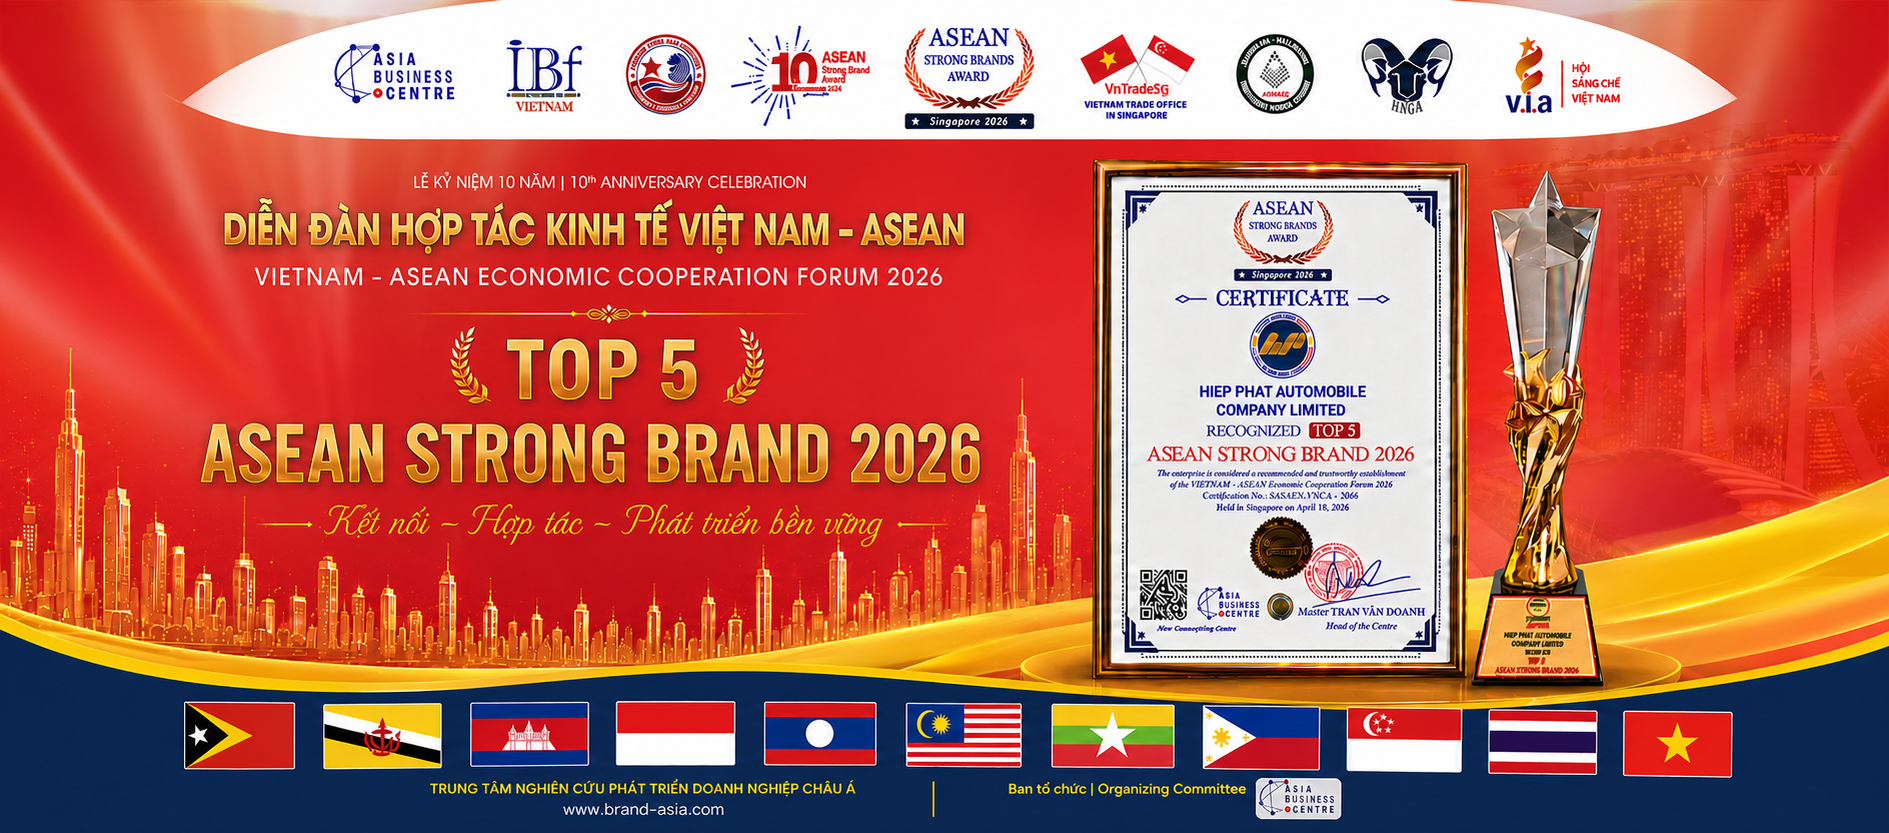
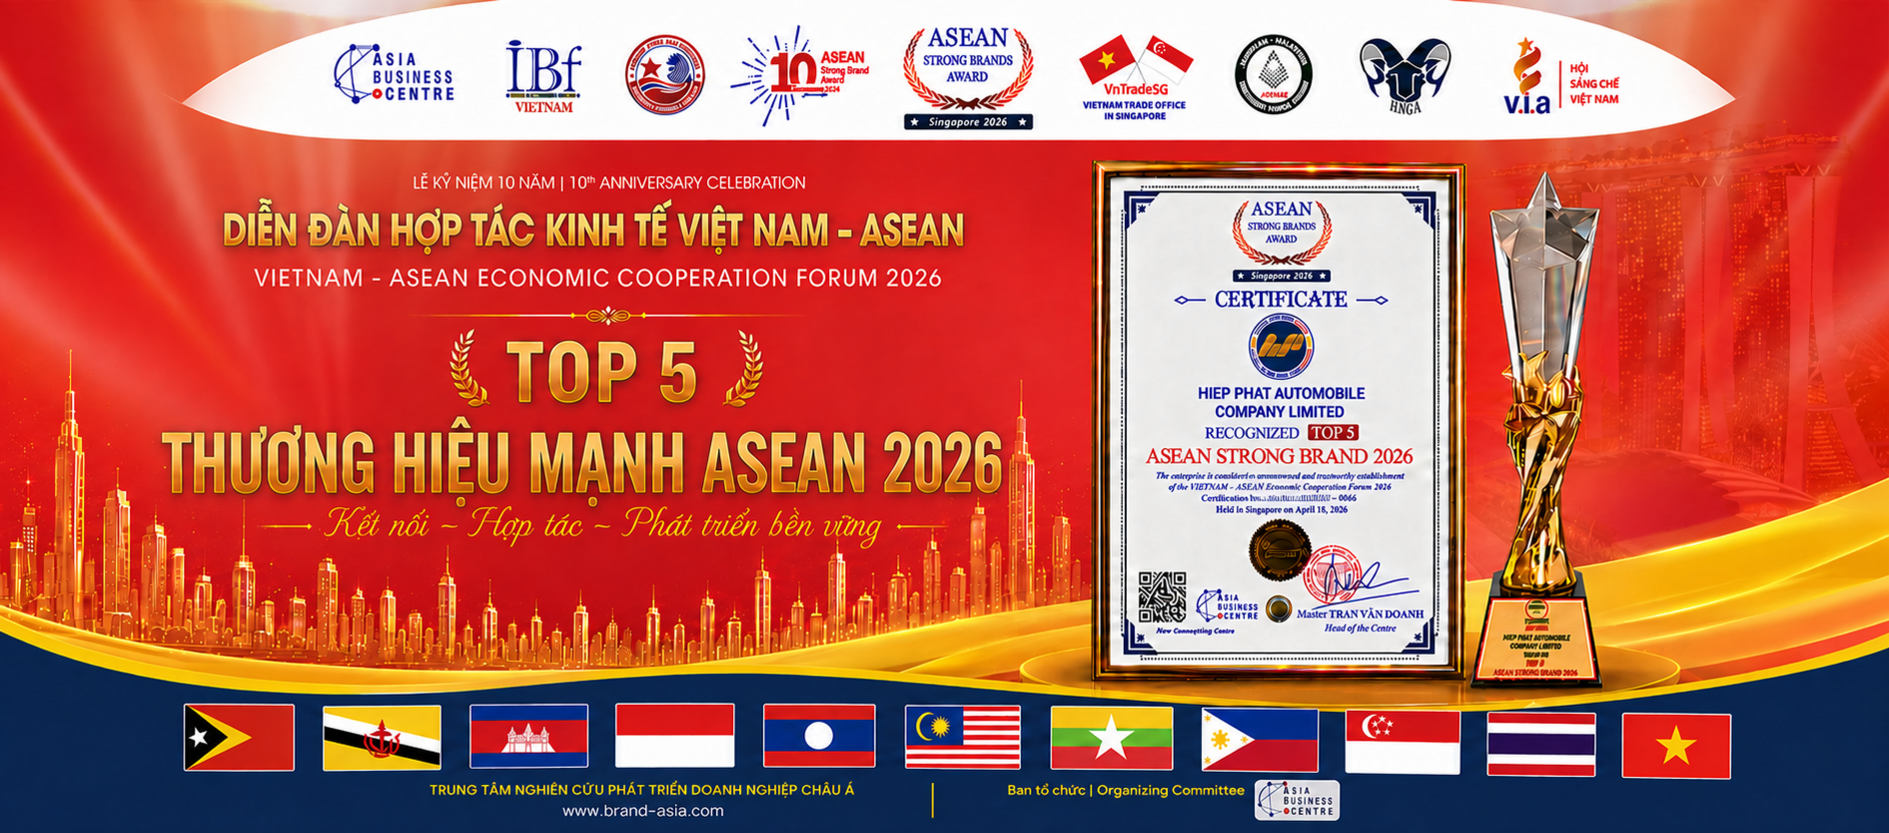
fix/update day celebrate

diff --git a/index.html b/index.html
@@ -148,7 +148,7 @@
             aria-label="1 trên 7"
           >
             <div class="award-slide__topline award-slide__topline--absolute">
-              <strong>Sydney · Australia · 28/06/2026</strong>
+              <strong>Sydney · Australia · 24/08/2026</strong>
             </div>
             <img
               class="award-slide__poster"
@@ -165,7 +165,7 @@
             aria-hidden="true"
           >
             <div class="award-slide__topline award-slide__topline--absolute">
-              <strong>Sydney · Australia · 28/06/2026</strong>
+              <strong>Sydney · Australia · 24/08/2026</strong>
             </div>
             <img
               class="award-slide__global-background"
@@ -174,7 +174,7 @@
               loading="lazy"
             />
             <div class="award-slide__global-copy">
-              <small>Sydney · Australia · 28/06/2026</small>
+              <small>Sydney · Australia · 24/08/2026</small>
               <span>Vinh danh</span>
               <strong>Top 10</strong>
               <h4>Thương hiệu xuất sắc<br />toàn cầu 2026</h4>
@@ -189,7 +189,7 @@
             aria-hidden="true"
           >
             <div class="award-slide__topline award-slide__topline--absolute">
-              <strong>Sydney · Australia · 28/06/2026</strong>
+              <strong>Sydney · Australia · 24/08/2026</strong>
             </div>
             <img
               class="award-slide__global-background"
@@ -257,7 +257,7 @@
               >
                 <strong>Top 5</strong>
               </div>
-              <h4>ASEAN Strong Brand 2026</h4>
+              <h4>Thương hiệu Mạnh ASEAN 2026</h4>
               <em>Kết nối – Hợp tác – Phát triển bền vững</em>
             </div>
           </article>
@@ -327,7 +327,7 @@
           >
             <div class="award-slide__content">
               <div class="award-slide__topline award-slide__topline--absolute">
-                <strong>Việt Nam · 24/05/2025</strong>
+                <strong>Việt Nam · 13/09/2025</strong>
               </div>
               <p class="award-slide__eyebrow">Thương hiệu Việt</p>
               <h4>Thương hiệu<br />Hàng Việt Tốt 2025</h4>
@@ -468,7 +468,7 @@
                 aria-label="1 trên 3"
               >
                 <div class="award-poster-slide__topline">
-                  <strong>Sydney · Australia · 28/06/2026</strong>
+                  <strong>Sydney · Australia · 24/08/2026</strong>
                 </div>
                 <img
                   src="assets/images/awards/australia-doc.png"
@@ -498,7 +498,7 @@
                 aria-hidden="true"
               >
                 <div class="award-poster-slide__topline">
-                  <strong>Việt Nam · 24/05/2025</strong>
+                  <strong>Việt Nam · 13/09/2025</strong>
                 </div>
                 <img
                   src="assets/images/awards/viettot-doc.png"

diff --git a/assets/css/awards.css b/assets/css/awards.css
@@ -4052,7 +4052,8 @@
 }
 .award-slide__asean-copy h4 {
   max-width: none;
-  margin: 0;
+  margin: -0.12em 0 -0.08em;
+  padding: 0.12em 0 0.08em;
   color: #f7cf5f;
   background: var(--asean-gold-gradient);
   -webkit-background-clip: text;
@@ -4062,7 +4063,7 @@
   font-family: "Plus Jakarta Sans", Arial, sans-serif;
   font-size: clamp(26px, 4.2vw, 60px);
   font-weight: 700;
-  line-height: 1;
+  line-height: 1.08;
   letter-spacing: -0.035em;
   text-transform: uppercase;
   text-shadow: none;
